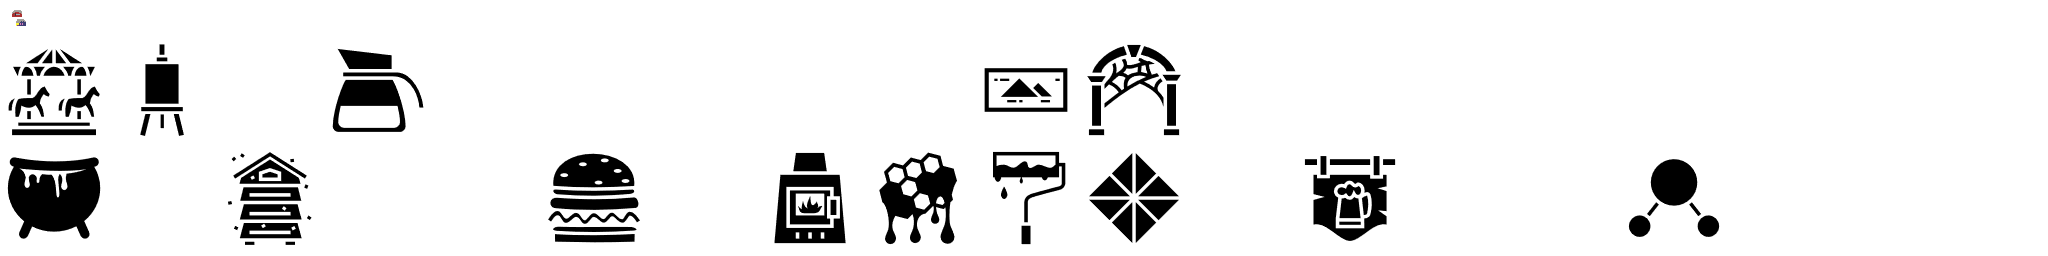
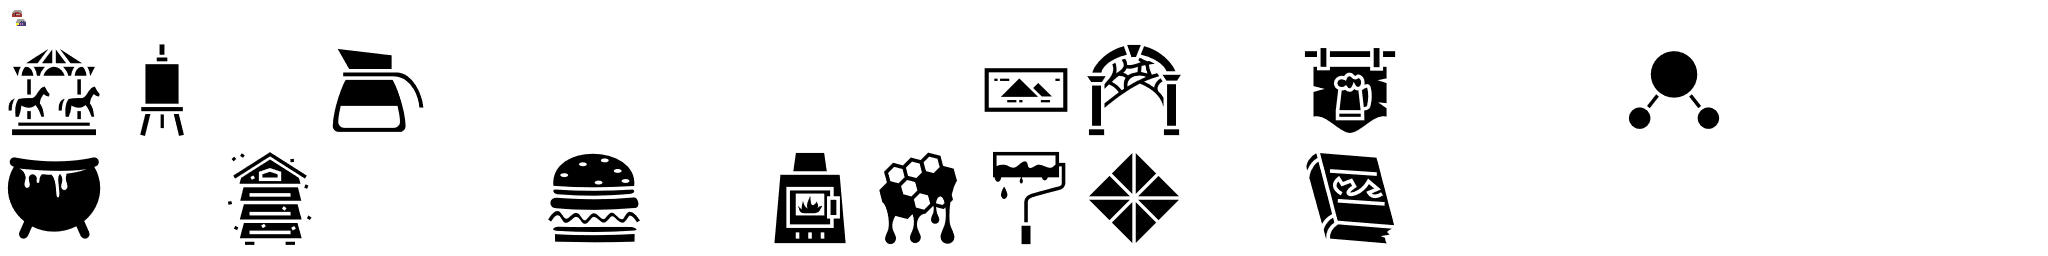
Changed Spectrals building into Storyteller's Hut

diff --git a/CREDITS.md b/CREDITS.md
@@ -30,12 +30,12 @@ Unless otherwise specified, all the following are from [Game-icons.net](https://
 ### Building icons
 
 - [Crypt entrance](https://game-icons.net/1x1/delapouite/crypt-entrance.html) by Delapouite for Silk Gate
-- [Carousel](https://game-icons.net/1x1/delapouite/carousel.html) by Delapouite for Amusement Park
 - [Furnace](https://game-icons.net/1x1/delapouite/furnace.html) by Delapouite for Furnace
 - [Cauldron](https://game-icons.net/1x1/darkzaitzev/cauldron.html) by DarkZaitzev for Alchemy
 - [Tavern sign](https://game-icons.net/1x1/delapouite/tavern-sign.html) by Delapouite for Tavern
 - [H2O](https://game-icons.net/1x1/delapouite/h2o.html) by Delapouite for Water Research Facility
 - [Beehive](https://game-icons.net/1x1/delapouite/beehive.html) by Delapouite for Beehive
+- [Book cover](https://game-icons.net/1x1/lorc/book-cover.html) by Lorc for Storyteller's Hut
 
 ### Unit Promotion icons
 
@@ -62,3 +62,4 @@ Unless otherwise specified, all the following are from [Game-icons.net](https://
 - [Dripping honey](https://game-icons.net/1x1/lorc/dripping-honey.html) by Lorc for Honey Palace
 - [Paint roller](https://game-icons.net/1x1/delapouite/paint-roller.html) by Delapouite for Mural Walls
 - [Easel](https://game-icons.net/1x1/caro-asercion/easel.html) by Caro Asercion for Art Studio
+- [Carousel](https://game-icons.net/1x1/delapouite/carousel.html) by Delapouite for Amusement Park
